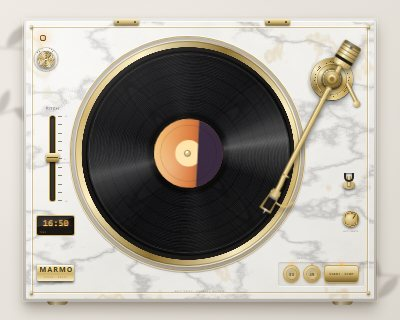
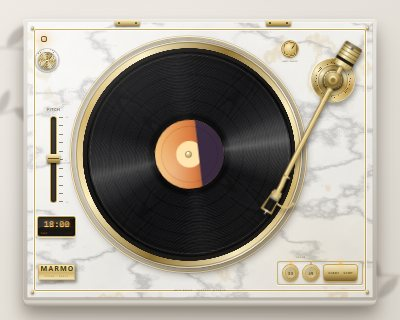
Back to 2D: Teak flat again. Marble: loose lever removed, arm rest redesigned (brass post with felt cradle, only visible while parked), bevelled stone edge with stepped shadow, brass-edged panels, brass ring with fine groove, richer shadows

diff --git a/skins.css b/skins.css
@@ -1008,3 +1008,43 @@ html[data-skin="teak"][data-rpm="45"] #powerknob i { transform: rotate(0deg); }
 [data-skin="teak"] #lid { display: none; }
 html[data-skin="teak"] body.lidoff #deco .d5 { opacity: 0; }
 [data-skin="teak"] #deco .d5 { transition: opacity .8s; }
+
+/* =====================================================================
+   v14: back to 2D. Teak flat again; MARBLE detail pass
+   ===================================================================== */
+[data-skin="teak"] #plinth { transform: none; }
+[data-skin="teak"] #deco .d6 { display: none; }
+[data-skin="teak"] #deco .d5 { top: calc(var(--u) * -3.4); height: calc(var(--u) * 3); left: calc(var(--u) * 6); right: calc(var(--u) * 6); clip-path: none; }
+[data-skin="teak"] .hinge { top: calc(var(--u) * -2.4); height: calc(var(--u) * 3.4); }
+
+/* marked item 1: the loose lever beside the arm base is gone */
+[data-skin="marble"] #armbase .lift { display: none; }
+/* marked item 2: arm rest = brass post with a felt-lined cradle, only visible while the arm is parked */
+[data-skin="marble"] #armrest { transition: opacity .6s; transform: scale(.9); }
+[data-skin="marble"] .playing #armrest, [data-skin="marble"] #armrest.hidden { opacity: 0; }
+[data-skin="marble"] #armrest::before { background: radial-gradient(circle at 38% 30%, #fff3c4, #c9a14a 55%, #7a5a22); box-shadow: 0 calc(var(--u) * .5) calc(var(--u) * .7) rgba(70,55,25,.45), 0 0 0 calc(var(--u) * .12) rgba(110,80,25,.5); }
+[data-skin="marble"] #armrest::after { background: linear-gradient(90deg, #7a5a22, #fcefc4 45%, #8c6f30); }
+[data-skin="marble"] #armrest i { border-color: #8a6a28; background: none; box-shadow: inset 0 calc(var(--u) * -.3) 0 #b0302a; }
+
+/* marble: richer stone, bevelled edge, brass studs, softer contact shadows */
+[data-skin="marble"] #plinth { border-width: calc(var(--u) * 1); background-blend-mode: normal;
+  box-shadow: inset 0 calc(var(--u) * .2) 0 rgba(255,255,255,.95), inset 0 0 0 calc(var(--u) * .12) rgba(150,140,125,.5), inset 0 calc(var(--u) * -.3) 0 rgba(0,0,0,.1),
+    0 calc(var(--u) * .5) 0 #d8d3ca, 0 calc(var(--u) * 1) 0 #c4beb3, 0 calc(var(--u) * 1.5) 0 #aaa398,
+    0 calc(var(--u) * 3) calc(var(--u) * 3.5) rgba(70,58,44,.4), 0 calc(var(--u) * 6) calc(var(--u) * 8) rgba(70,58,44,.28); }
+[data-skin="marble"] #deco .d1 { inset: calc(var(--u) * 1.9); border: calc(var(--u) * .1) solid #c9a64f; box-shadow: 0 0 0 1px rgba(255,255,255,.8), inset 0 0 0 1px rgba(255,255,255,.6); }
+/* the platter: brass ring with a fine groove, white felt-like mat step, stronger shadow */
+[data-skin="marble"] #well { box-shadow: inset 0 calc(var(--u) * .5) calc(var(--u) * 1.3) rgba(60,50,40,.4), 0 0 0 calc(var(--u) * .3) #c9a64f, 0 0 0 calc(var(--u) * .55) rgba(255,255,255,.8), 0 0 0 calc(var(--u) * .7) rgba(150,125,70,.45), calc(var(--u) * .6) calc(var(--u) * 1.1) calc(var(--u) * 2) calc(var(--u) * .2) rgba(70,58,44,.32); }
+[data-skin="marble"] #rim { box-shadow: calc(var(--u) * .5) calc(var(--u) * 1) calc(var(--u) * 1.6) rgba(60,45,20,.5), 0 0 0 calc(var(--u) * .1) rgba(90,65,20,.6); }
+/* arm base: cleaner brass disc with a fine knurled ring */
+[data-skin="marble"] #armbase { box-shadow: 0 0 0 calc(var(--u) * .22) #c9a64f, 0 0 0 calc(var(--u) * .4) rgba(255,255,255,.7), calc(var(--u) * .7) calc(var(--u) * 1.2) calc(var(--u) * 1.4) rgba(60,45,20,.45); }
+/* the controls get an inset brass-edged panel with engraved labels */
+[data-skin="marble"] #ctl::before { background: linear-gradient(180deg, rgba(255,255,255,.55), rgba(230,225,215,.5)); box-shadow: inset 0 0 0 1px rgba(201,166,79,.7), inset 0 1px 3px rgba(60,50,40,.25), 0 1px 0 #fff; }
+[data-skin="marble"] #pitch::after { content: ""; position: absolute; left: calc(var(--u) * -1.2); top: calc(var(--u) * -1.2); right: calc(var(--u) * -1); bottom: calc(var(--u) * -.6); border-radius: calc(var(--u) * .5); pointer-events: none; z-index: -1;
+  background: linear-gradient(180deg, rgba(255,255,255,.5), rgba(228,222,212,.45)); box-shadow: inset 0 0 0 1px rgba(201,166,79,.65), inset 0 1px 3px rgba(60,50,40,.22), 0 1px 0 #fff; }
+[data-skin="marble"] #pitch .lab, [data-skin="marble"] #antiskate, [data-skin="marble"] .silk { color: rgba(110,85,40,.75); font-weight: 700; }
+[data-skin="marble"] #vfd { box-shadow: inset 0 calc(var(--u) * .2) calc(var(--u) * .5) #000, 0 0 0 calc(var(--u) * .3) #c9a64f, 0 0 0 calc(var(--u) * .5) rgba(255,255,255,.8), 0 calc(var(--u) * .6) calc(var(--u) * 1) rgba(60,45,20,.4); }
+[data-skin="marble"] #badge { box-shadow: calc(var(--u) * .5) calc(var(--u) * .8) calc(var(--u) * .9) rgba(60,45,20,.5), inset 0 0 0 calc(var(--u) * .12) rgba(255,246,200,.8), inset 0 0 0 calc(var(--u) * .26) rgba(110,80,25,.5); }
+/* anti-skate: brass knob with a clear tick ring */
+[data-skin="marble"] #antiskate .dial { box-shadow: 0 calc(var(--u) * .4) calc(var(--u) * .8) rgba(60,45,20,.5), 0 0 0 calc(var(--u) * .25) #c9a64f, 0 0 0 calc(var(--u) * .45) rgba(255,255,255,.8); }
+/* deeper veins: second vein layer in warm gold, softer cloud */
+[data-skin="marble"] #plinth::before { background: linear-gradient(115deg, rgba(255,255,255,.5), transparent 38%, rgba(255,255,255,.22) 70%, transparent), radial-gradient(ellipse 50% 40% at 80% 85%, rgba(201,166,79,.1), transparent 70%); }
